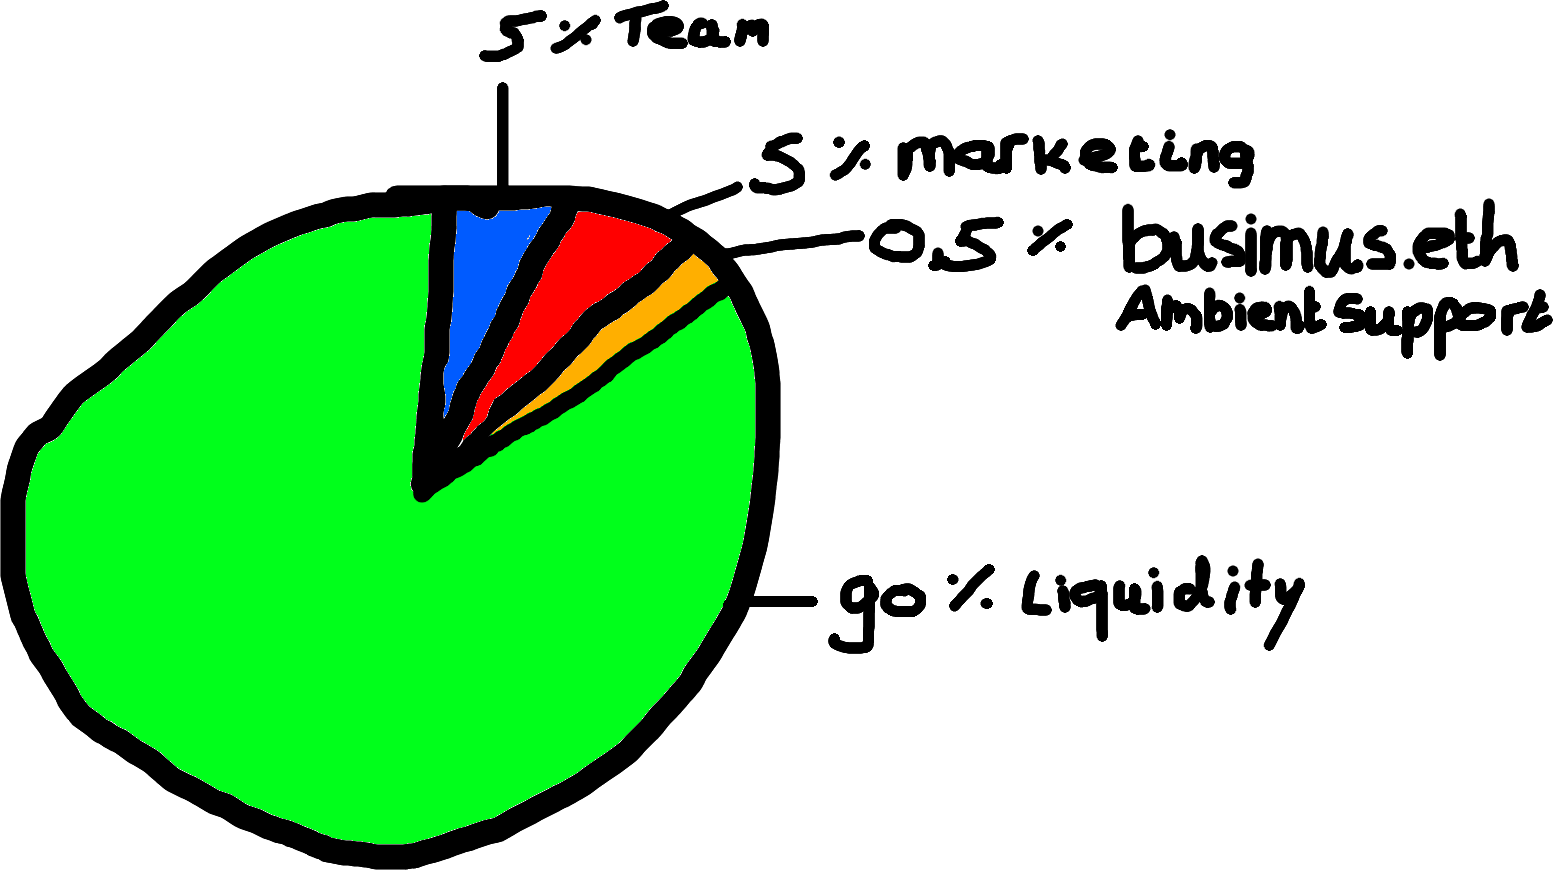
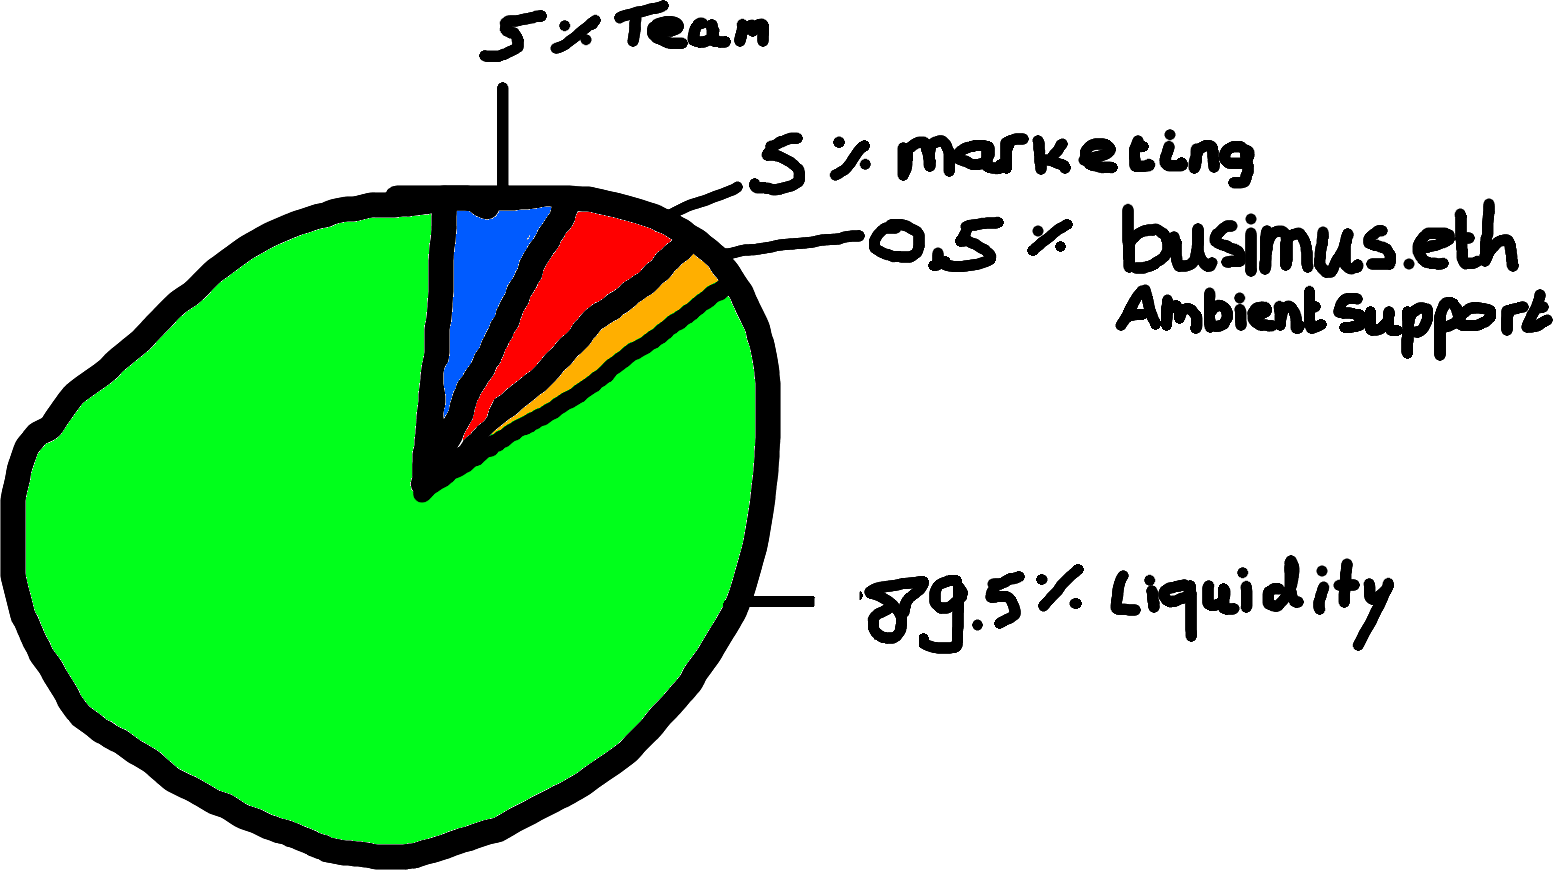
Add files via upload

Changed region(s): [[0.5254, 0.6207, 0.8963, 0.7759]]

diff --git a/tokenomics.html b/tokenomics.html
@@ -9,18 +9,18 @@
 <body>
 <div class="container">
  
-    <div class="header">
-      <div class="link"><a href="index.html"><img class="draw" src="src/imgs/dollarcar.png"></a></div>
-      <div class="link"><a href="https://scrollscan.com/" target="_blank"><img class="draw" src="src/imgs/ca.png"></a></div>
-      <div class="link"><a href="https://t.me/scrollcar" target="_blank"><img class="draw" src="src/imgs/telegram.png"></a></div>
-      <div class="link"><a href="https://www.x.com/scrollcar" target="_blank"><img class="draw" src="src/imgs/x.png"></a></div>
-      <div class="link"><a href="tokenomics.html"><img class="draw" src="src/imgs/tokenomics.png"></a></div>
-      <div class="link"><a href="roadmap.html"><img class="draw" src="src/imgs/roadmap.png"></a></div>
-      <div class="link"><a href="https://scroll.ambient.finance/" target="_blank"><img class="draw" src="src/imgs/buy.png"></a></div>
-      </div>
+  <div class="header">
+    <div class="link"><a href="index.html"><img class="draw" src="src/imgs/dollarcar.png"></a></div>
+    <div class="link"><a href="https://scrollscan.com/address/0x063b753829027e615D9B5Bb7897b4B59c20373C8" target="_blank"><img class="draw" src="src/imgs/ca.png"></a></div>
+    <div class="link"><a href="https://t.me/scrollcar" target="_blank"><img class="draw" src="src/imgs/telegram.png"></a></div>
+    <div class="link"><a href="https://www.x.com/scrollcar" target="_blank"><img class="draw" src="src/imgs/x.png"></a></div>
+    <div class="link"><a href="tokenomics.html"><img class="draw" src="src/imgs/tokenomics.png"></a></div>
+    <div class="link"><a href="roadmap.html"><img class="draw" src="src/imgs/roadmap.png"></a></div>
+    <div class="link"><a href="https://izumi.finance/trade/swap?outputCurrency=0x063b753829027e615D9B5Bb7897b4B59c20373C8" target="_blank"><img class="draw" src="src/imgs/buy.png"></a></div>
+  </div>
       
       <div class="container2">
-        <img class="piechart" src="src/imgs/piechart3.png">
+        <img class="piechart" src="src/imgs/piechart.png">
         <img class="tax" src="src/imgs/tax.png">
       </div>
 

diff --git a/roadmap.html b/roadmap.html
@@ -9,15 +9,15 @@
 <body>
 <div class="container">
  
-    <div class="header">
-      <div class="link"><a href="index.html"><img class="draw" src="src/imgs/dollarcar.png"></a></div>
-      <div class="link"><a href="https://scrollscan.com/" target="_blank"><img class="draw" src="src/imgs/ca.png"></a></div>
-      <div class="link"><a href="https://t.me/scrollcar" target="_blank"><img class="draw" src="src/imgs/telegram.png"></a></div>
-      <div class="link"><a href="https://www.x.com/scrollcar" target="_blank"><img class="draw" src="src/imgs/x.png"></a></div>
-      <div class="link"><a href="tokenomics.html"><img class="draw" src="src/imgs/tokenomics.png"></a></div>
-      <div class="link"><a href="roadmap.html"><img class="draw" src="src/imgs/roadmap.png"></a></div>
-      <div class="link"><a href="https://scroll.ambient.finance/" target="_blank"><img class="draw" src="src/imgs/buy.png"></a></div>
-    </div>
+  <div class="header">
+    <div class="link"><a href="index.html"><img class="draw" src="src/imgs/dollarcar.png"></a></div>
+    <div class="link"><a href="https://scrollscan.com/address/0x063b753829027e615D9B5Bb7897b4B59c20373C8" target="_blank"><img class="draw" src="src/imgs/ca.png"></a></div>
+    <div class="link"><a href="https://t.me/scrollcar" target="_blank"><img class="draw" src="src/imgs/telegram.png"></a></div>
+    <div class="link"><a href="https://www.x.com/scrollcar" target="_blank"><img class="draw" src="src/imgs/x.png"></a></div>
+    <div class="link"><a href="tokenomics.html"><img class="draw" src="src/imgs/tokenomics.png"></a></div>
+    <div class="link"><a href="roadmap.html"><img class="draw" src="src/imgs/roadmap.png"></a></div>
+    <div class="link"><a href="https://izumi.finance/trade/swap?outputCurrency=0x063b753829027e615D9B5Bb7897b4B59c20373C8" target="_blank"><img class="draw" src="src/imgs/buy.png"></a></div>
+  </div>
 
     <div class="container2">
       <img class="rmap" src="src/imgs/theroadmap.png">

diff --git a/index.html b/index.html
@@ -13,12 +13,12 @@
 <div class="container1">
   <div class="header">
     <div class="link"><a href="index.html"><img class="draw" src="src/imgs/dollarcar.png"></a></div>
-    <div class="link"><a href="https://scrollscan.com/" target="_blank"><img class="draw" src="src/imgs/ca.png"></a></div>
+    <div class="link"><a href="https://scrollscan.com/address/0x063b753829027e615D9B5Bb7897b4B59c20373C8" target="_blank"><img class="draw" src="src/imgs/ca.png"></a></div>
     <div class="link"><a href="https://t.me/scrollcar" target="_blank"><img class="draw" src="src/imgs/telegram.png"></a></div>
     <div class="link"><a href="https://www.x.com/scrollcar" target="_blank"><img class="draw" src="src/imgs/x.png"></a></div>
     <div class="link"><a href="tokenomics.html"><img class="draw" src="src/imgs/tokenomics.png"></a></div>
     <div class="link"><a href="roadmap.html"><img class="draw" src="src/imgs/roadmap.png"></a></div>
-    <div class="link"><a href="https://scroll.ambient.finance/" target="_blank"><img class="draw" src="src/imgs/buy.png"></a></div>
+    <div class="link"><a href="https://izumi.finance/trade/swap?outputCurrency=0x063b753829027e615D9B5Bb7897b4B59c20373C8" target="_blank"><img class="draw" src="src/imgs/buy.png"></a></div>
   </div>
     <div class="trees"></div>
     <div class="road"></div>
